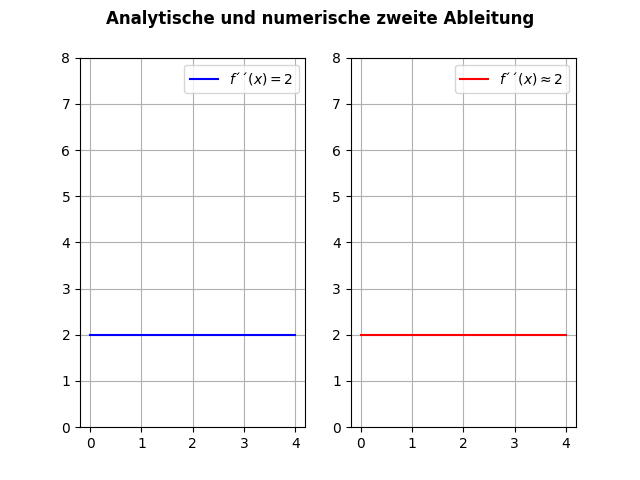
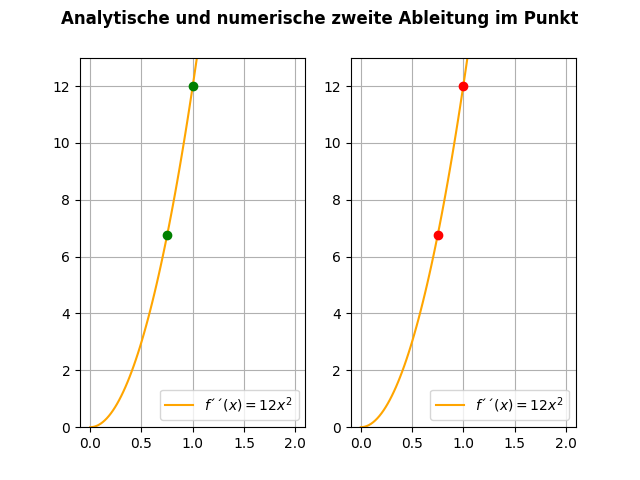
changed simple examples

diff --git a/Code/Approximation_Ableitung/Numerische_Ableitung.py b/Code/Approximation_Ableitung/Numerische_Ableitung.py
@@ -4,79 +4,97 @@ from Code.Approximation_Ableitung.Derivative import Derivative
 
 
 def f(x):
-    return np.square(x)
+    return np.power(x, 4)
 
 
 def df(x):
-    return 2 * x
+    return 4*np.power(x, 3)
 
 
 def ddf(x):
-    return np.full_like(x, 2)
+    return 12*np.power(x, 2)
 
 
-h = 0.0001
-x = np.linspace(0, 4, 100)
+h1 = 0.001
+h2 = 0.002
+h3 = 0.003
+x = np.linspace(0, 2, 100)
 
-y_real_1 = df(x)
-y_real_2 = ddf(x)
-
-y_approximated_1 = Derivative.of_order_1(f, x, h)
-y_approximated_2 = Derivative.of_order_2(f, x, h)
+y_point_1 = Derivative.of_order_1(f, 1, h1)
+y_point_2 = Derivative.of_order_1(f, 0.75, h1)
+y_real_1 = df(1)
+y_real_2 = df(0.75)
 
 y_min = 0
-y_max = 8
+y_max = 13
 
 fig1, (ax1, ax2) = plt.subplots(1, 2)
-fig1.suptitle('Analytische und numerische erste Ableitung', fontweight='bold')
+fig1.suptitle('Analytische und numerische erste Ableitung im Punkt', fontweight='bold')
 
-ax1.plot(x, y_real_1, 'b', label=r'$f´(x) = 2x$')
+ax1.plot(x, df(x), label=r'$f´(x) = 4x^3$', color='orange')
+ax1.plot(1, y_real_1, 'go')
+ax1.plot(0.75, y_real_2, 'go')
 
 ax1.set_ylim([y_min, y_max])
 ax1.grid()
 ax1.legend()
 
-ax2.plot(x, y_approximated_1, 'r', label=r'$f´(x) \approx 2x$')
+ax2.plot(x, df(x), label=r'$f´(x) = 4x^3$', color='orange')
+ax2.plot(1, y_point_1, 'ro')
+ax2.plot(0.75, y_point_2, 'ro')
 
 ax2.set_ylim([y_min, y_max])
 ax2.grid()
 ax2.legend()
 
-plt.show()
+#plt.show()
+
+y_point_1 = Derivative.of_order_2(f, 1, h1)
+y_point_2 = Derivative.of_order_2(f, 0.75, h1)
+y_real_1 = ddf(1)
+y_real_2 = ddf(0.75)
 
 fig2, (ax1, ax2) = plt.subplots(1, 2)
-fig2.suptitle('Analytische und numerische zweite Ableitung', fontweight='bold')
+fig2.suptitle('Analytische und numerische zweite Ableitung im Punkt', fontweight='bold')
 
-ax1.plot(x, y_real_2, 'b', label=r'$f´´(x) = 2$')
-
-ax1.set_ylim([y_min, y_max])
-ax1.grid()
-ax1.legend()
-
-ax2.plot(x, y_approximated_2, 'r', label=r'$f´´(x) \approx 2$')
-
-ax2.set_ylim([y_min, y_max])
-ax2.grid()
-ax2.legend()
-
-plt.show()
-
-y_min = 2 - 1/np.power(10, 6)
-y_max = 2 + 1/np.power(10, 6)
-
-fig2, (ax1, ax2) = plt.subplots(1, 2)
-fig2.suptitle('Fehler der Approximation infinitesimal nah an 2', fontweight='bold')
-
-ax1.plot(x, y_real_2, 'b', label=r'$f´´(x) = 2$')
+ax1.plot(x, ddf(x), label=r'$f´´(x) = 12x^2$', color='orange')
+ax1.plot(1, y_real_1, 'go')
+ax1.plot(0.75, y_real_2, 'go')
 
 ax1.set_ylim([y_min, y_max])
 ax1.grid()
 ax1.legend()
 
-ax2.plot(x, y_approximated_2, 'r', label=r'$f´´(x) \approx 2$')
+ax2.plot(x, ddf(x), label=r'$f´´(x) = 12x^2$', color='orange')
+ax2.plot(1, y_point_1, 'ro')
+ax2.plot(0.75, y_point_2, 'ro')
 
 ax2.set_ylim([y_min, y_max])
 ax2.grid()
 ax2.legend()
+
+#plt.show()
+
+y_point_1 = Derivative.of_order_2(f, 0.75, h1)
+y_point_2 = Derivative.of_order_2(f, 0.75, h2)
+y_point_3 = Derivative.of_order_2(f, 0.75, h3)
+y_real = ddf(0.75)
+
+x = np.linspace(0.5, 1, 100)
+y_min = 6.75 - 1/np.power(10, 4.7)
+y_max = 6.75 + 1/np.power(10, 4.7)
+
+plt.figure()
+plt.title('Fehler der Approximation infinitesimal nah an 6.75', fontweight='bold')
+
+plt.plot(x, ddf(x), label=r'$f´´(x) = 12x^2$', color='orange')
+plt.plot(0.75, y_real, 'go', label=f'Analytisch')
+plt.plot(0.75, y_point_1, 'yo', label=f'h = 0.001')
+plt.plot(0.75, y_point_2, 'ro', label=f'h = 0.002')
+plt.plot(0.75, y_point_3, 'bo', label=f'h = 0.003')
+
+plt.ylim([y_min, y_max])
+plt.grid()
+plt.legend()
 
 plt.show()
